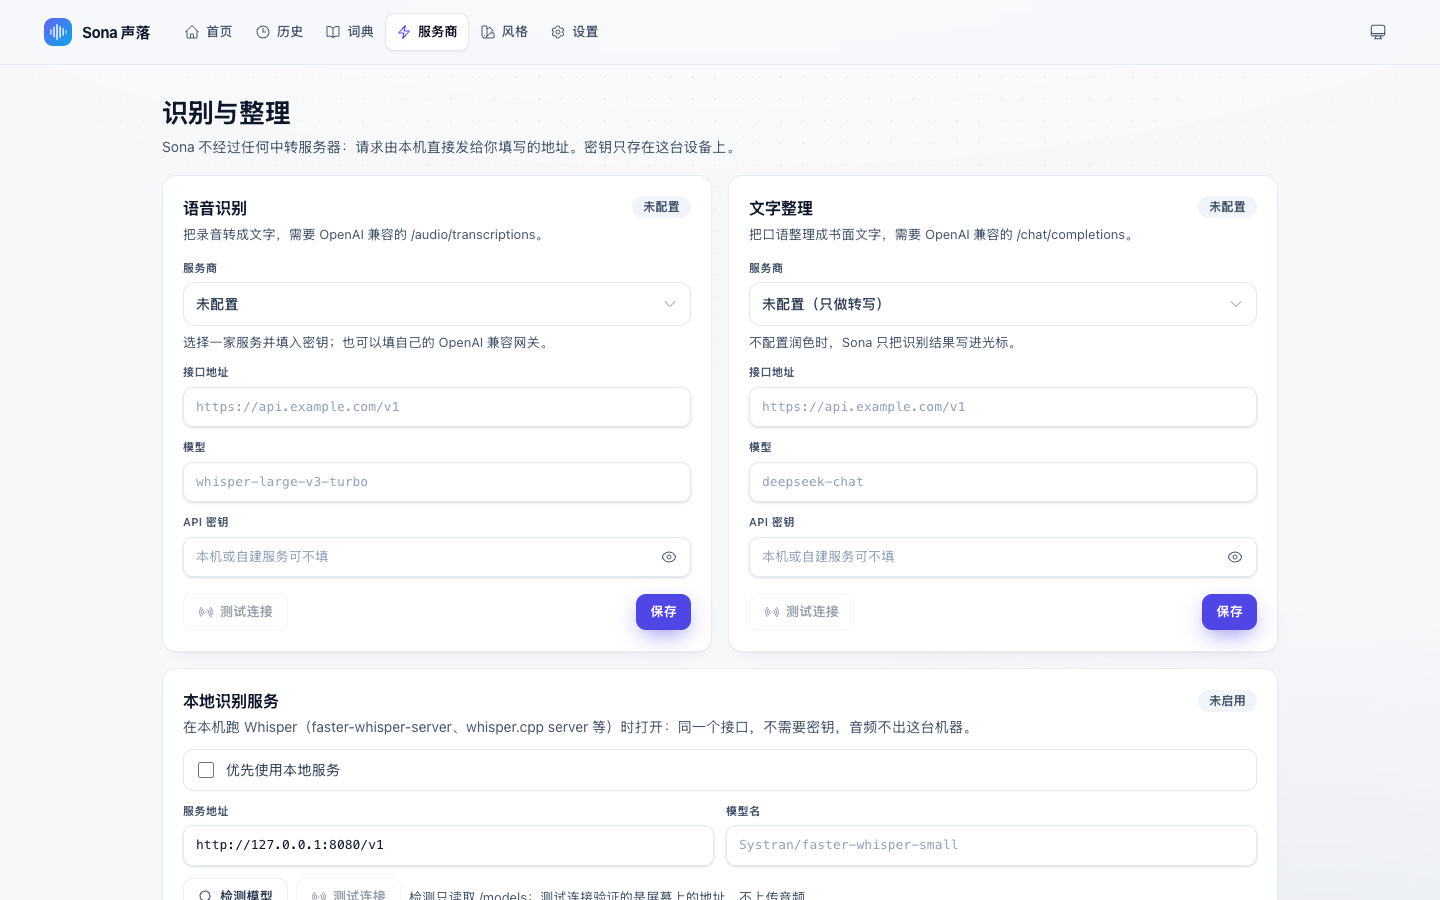
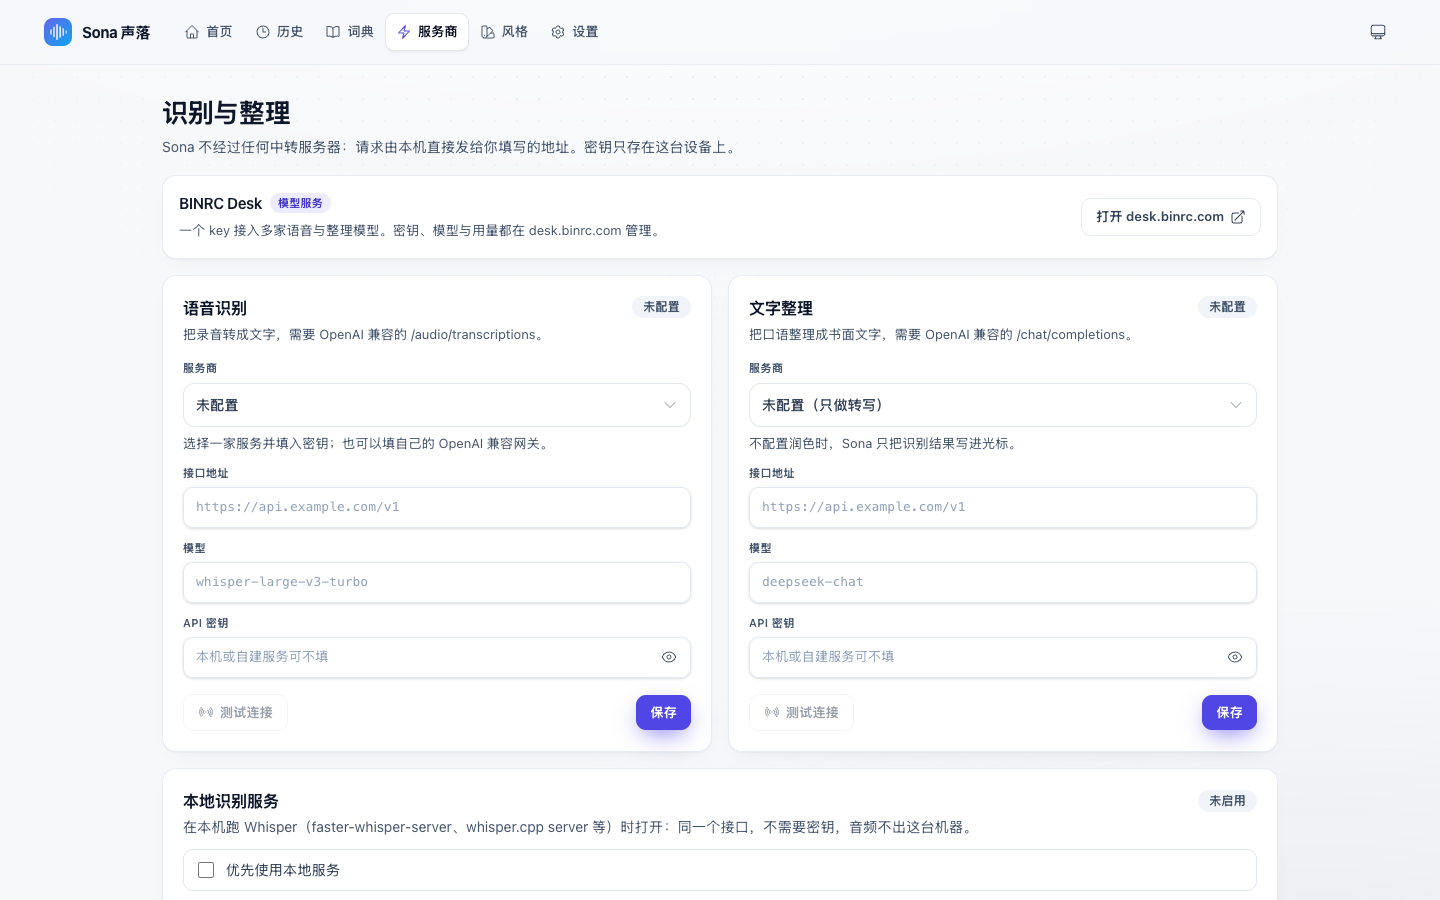
feat: add BINRC Desk model service entry

diff --git a/src/components/views/ProvidersView.tsx b/src/components/views/ProvidersView.tsx
@@ -1,5 +1,6 @@
 import { useEffect, useState } from 'react';
 import {
+  ArrowTopRightOnSquareIcon,
   CheckCircleIcon,
   ExclamationCircleIcon,
   MagnifyingGlassIcon,
@@ -9,7 +10,8 @@ import { useTranslation } from 'react-i18next';
 import { Badge } from '@/components/ui/badge';
 import { api } from '@/api';
 import { ProviderFields } from '@/components/providers/ProviderFields';
-import { ASR_PRESETS, POLISH_PRESETS, isConfigured, type ProviderPreset } from '@/lib/providers';
+import { ASR_PRESETS, BINRC_DESK_HOME, POLISH_PRESETS, isConfigured, type ProviderPreset } from '@/lib/providers';
+import { openExternal } from '@/lib/external';
 import { dictationErrorKey } from '@/lib/errors';
 import type { ProviderSettings, SecretBackend, VoiceSettings } from '@/types';
 
@@ -23,6 +25,14 @@ export interface ProvidersViewProps {
 export function ProvidersView({ voice, secretBackend, onSave, onNotify }: ProvidersViewProps) {
   const { t } = useTranslation();
 
+  const openDesk = async () => {
+    try {
+      await openExternal(BINRC_DESK_HOME);
+    } catch {
+      onNotify(t('providers.openFailed'), 'error');
+    }
+  };
+
   return (
     <div className="h-full overflow-y-auto">
       <div className="page-shell page-pad space-y-4">
@@ -32,6 +42,24 @@ export function ProvidersView({ voice, secretBackend, onSave, onNotify }: Provid
             {t('providers.subtitle')}
           </p>
         </header>
+
+        <section className="panel flex flex-col gap-3 p-4 sm:flex-row sm:items-center sm:justify-between">
+          <div className="min-w-0">
+            <div className="flex flex-wrap items-center gap-2">
+              <h2 className="text-[15px] font-semibold text-slate-900 dark:text-white">BINRC Desk</h2>
+              <span className="rounded-full bg-brand-600/10 px-2 py-0.5 text-[11px] font-semibold text-brand-700 dark:bg-brand-400/15 dark:text-brand-300">
+                {t('providers.deskBadge')}
+              </span>
+            </div>
+            <p className="mt-1 max-w-2xl text-[13px] leading-6 text-slate-600 dark:text-slate-300">
+              {t('providers.deskBody')}
+            </p>
+          </div>
+          <button type="button" onClick={openDesk} className="btn-secondary shrink-0 self-start sm:self-auto">
+            {t('providers.deskCta')}
+            <ArrowTopRightOnSquareIcon className="h-4 w-4" />
+          </button>
+        </section>
 
         <div className="grid gap-4 lg:grid-cols-2">
           <ProviderCard

diff --git a/src/lib/providers.ts b/src/lib/providers.ts
@@ -1,12 +1,13 @@
 import type { ProviderSettings, VoiceSettings } from '@/types';
 
 /**
- * Binrc Cloud is an OpenAI-compatible model gateway, not a Sona-only backend.
+ * BINRC Desk is an OpenAI-compatible model gateway, not a Sona-only backend.
  * The shared `api.binrc.com` host already serves other cloud APIs, so keep the
  * model service under `/ai/` instead of claiming the generic `/v1` root. A
  * future `ai.binrc.com` can alias this path without changing clients.
  */
-export const BINRC_CLOUD_BASE_URL = 'https://api.binrc.com/ai/v1';
+export const BINRC_DESK_BASE_URL = 'https://api.binrc.com/ai/v1';
+export const BINRC_DESK_HOME = 'https://desk.binrc.com';
 
 export interface ProviderPreset {
   id: string;
@@ -28,11 +29,11 @@ export const ASR_PRESETS: ProviderPreset[] = [
     needsKey: false,
   },
   {
-    id: 'sona',
-    label: 'Binrc Cloud（未上线）',
-    baseUrl: BINRC_CLOUD_BASE_URL,
+    id: 'binrc-desk',
+    label: 'BINRC Desk',
+    baseUrl: BINRC_DESK_BASE_URL,
     model: '',
-    hint: 'Binrc 的模型网关，聚合多家 ASR 与整理模型；服务上线后从 /v1/models 选择模型。',
+    hint: '一个 key 接入多家 ASR 与整理模型；密钥与模型列表在 desk.binrc.com 管理。',
     needsKey: true,
   },
   {
@@ -88,11 +89,11 @@ export const POLISH_PRESETS: ProviderPreset[] = [
     needsKey: false,
   },
   {
-    id: 'sona',
-    label: 'Binrc Cloud（未上线）',
-    baseUrl: BINRC_CLOUD_BASE_URL,
+    id: 'binrc-desk',
+    label: 'BINRC Desk',
+    baseUrl: BINRC_DESK_BASE_URL,
     model: '',
-    hint: 'Binrc 的模型网关，聚合多家整理模型；服务上线后从 /v1/models 选择模型。',
+    hint: '一个 key 接入多家整理模型；密钥与模型列表在 desk.binrc.com 管理。',
     needsKey: true,
   },
   {
@@ -154,7 +155,9 @@ export const POLISH_PRESETS: ProviderPreset[] = [
 ];
 
 export function presetById(presets: ProviderPreset[], id: string): ProviderPreset | undefined {
-  return presets.find((preset) => preset.id === id);
+  // `sona` was the preset id in the first preview build; keep old settings usable.
+  const lookup = id === 'sona' ? 'binrc-desk' : id;
+  return presets.find((preset) => preset.id === lookup);
 }
 
 /** Apply a preset while keeping a key the user already typed. */

diff --git a/src/lib/external.ts b/src/lib/external.ts
@@ -1,0 +1,14 @@
+import { isTauri } from '@/api';
+
+/**
+ * Open a link in the user's browser. A plain anchor would navigate the Tauri
+ * webview away from the app; the shell plugin keeps Sona open.
+ */
+export async function openExternal(url: string) {
+  if (isTauri()) {
+    const { open } = await import('@tauri-apps/plugin-shell');
+    await open(url);
+    return;
+  }
+  window.open(url, '_blank', 'noopener,noreferrer');
+}

diff --git a/docs/ARCHITECTURE.md b/docs/ARCHITECTURE.md
@@ -42,7 +42,7 @@ src-tauri/src/
 - `test_provider_config` 接收前端**当前草稿**而不是已保存值，用户改完网址或模型就能立刻验证，不用先保存再试。
 - 探测只发一个最小的 `GET /models` 或一次空转请求，不写历史、不入统计。ASR 返回模型数量（`models`），文案由前端按界面语言生成；润色返回成功与否，不再把英文 `reachable` 直接塞进中文界面。
 - 浏览器预览不再返回假绿灯：`src/api/client.ts` 的 mock 会真的 `fetch` 草稿里的地址；CORS 或网络失败显示「浏览器预览无法直连，请在桌面应用里测试」，而不是让用户以为已经配好。字段不完整时测试按钮直接禁用。
-- Binrc Cloud 模型网关 `api.binrc.com/ai/v1` 在 `src/lib/providers.ts` 里以 `BINRC_CLOUD_BASE_URL` 预留，ASR 与整理共用同一个 origin；服务端未上线前预设不填模型名，避免把未验证的模型当成可用配置。客户端按 OpenAI 兼容约定预留 `GET /models`、`POST /audio/transcriptions`、`POST /chat/completions` 三个入口。
+- BINRC Desk 模型网关 `api.binrc.com/ai/v1` 在 `src/lib/providers.ts` 里以 `BINRC_DESK_BASE_URL` 预留，ASR 与整理共用同一个 origin；预设不填模型名，避免把未经验证的模型当成可用配置。客户端按 OpenAI 兼容约定预留 `GET /models`、`POST /audio/transcriptions`、`POST /chat/completions` 三个入口。
 
 ## 桌面端的存在方式
 

diff --git a/README.md b/README.md
@@ -3,7 +3,7 @@
 > 说一句，落一行。
 
 跨桌面与移动端的开源语音输入：按住说一句，识别 → 整理 → 直接落到光标处。
-模型任你接（OpenAI 兼容即可），也可以只用一个 key 跑完全程；没有账号、没有中转服务器。
+模型任你接（OpenAI 兼容即可），也可以只用一个 key 跑完全程；Sona 本身没有账号、没有中转服务器。模型入口（可选）：[BINRC Desk](https://desk.binrc.com)，一个 key 接入多家语音与整理模型。
 
 Tauri 2 + React 19 + TypeScript + Tailwind 4，Rust 后端分层（commands → service → dao → model）。
 

diff --git a/docs/ROADMAP.md b/docs/ROADMAP.md
@@ -52,7 +52,7 @@
 
 ## v0.4 生态
 
-- [ ] Binrc Cloud（`api.binrc.com/ai/v1`）：模型网关 + 模型目录 + ASR / 整理端点；服务端未上线，客户端预设已预留
+- [ ] BINRC Desk（`api.binrc.com/ai/v1`）：模型网关 + 模型目录 + ASR / 整理端点；客户端预设已接入
 - [ ] “粘贴上一条”
 - [ ] 自动更新与双频道（stable / beta）
 - [ ] `bench/`：CER、端到端时延、真实口述样本回归
